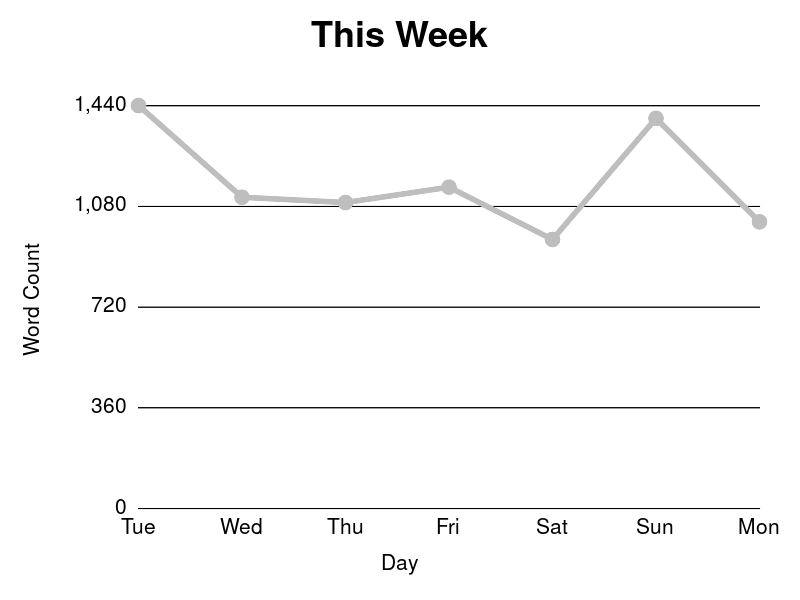
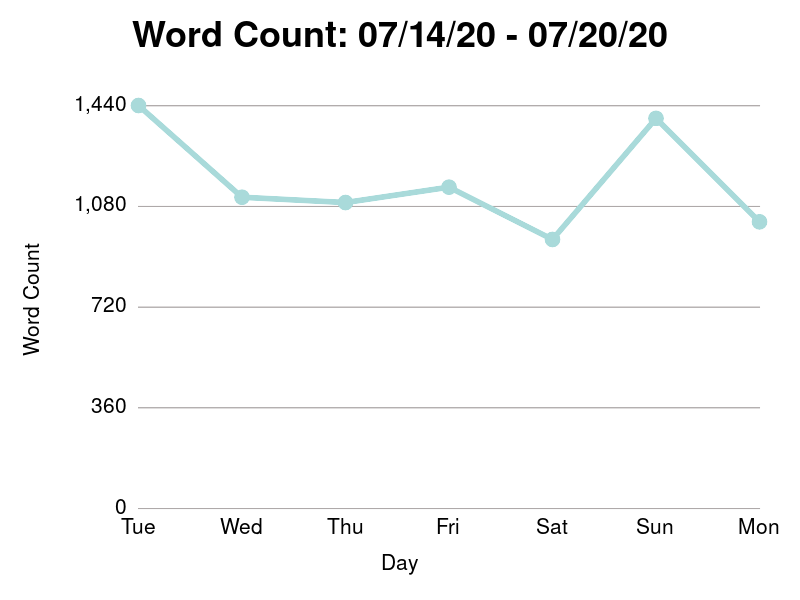
Swears

diff --git a/stats.html b/stats.html
@@ -6,19 +6,40 @@ slug: stats.html
 
 <div class="row">
   <div class="column">
-    {% include graph.html name="words.png" %}
-  </div>
-  <div class="column crowded">
+    <h2>Posts</h2>
+    <table>
+      <tr>
+	<td>Total Posts</td>
+	<td class="code">{{ site.data.stats.posts | pretty }}</td>
+      </tr>
+      <tr>
+	<td>Consecutive Daily Posts</td>
+	<td class="code">{{ site.data.stats.days.days | pretty }}</td>
+      </tr>
+    </table>
     <h2>Word Count</h2>
     <table>
       <tr>
-	<td>Total</td>
+	<td>Total Word Count</td>
 	<td class="code">{{ site.data.stats.words.total | pretty }}</td>
       </tr>
       <tr>
-	<td>Average</td>
+	<td>Average Word Count</td>
 	<td class="code">{{ site.data.stats.words.average | pretty }}</td>
       </tr>
     </table>
+  </div>
+  <div class="column">
+    {% include graph.html name="words.png" %}
+  </div>
+  <div class="column">
+    <h2>Bad Words</h2>
+    <table>
+      <tr>
+	<td>Total Bad Words</td>
+	<td class="code">{{ site.data.stats.swears.total | pretty }}</td>
+      </tr>
+    </table>
+    {% include graph.html name="swears.png" %}
   </div>
 </div>

diff --git a/_includes/graph.html b/_includes/graph.html
@@ -1,2 +1,2 @@
 {% capture filename %}graphs/{{ include.name }}{% endcapture %}
-{% include figure.html filename=filename class="graph" %}
+{% include figure.html filename=filename caption=include.caption class="graph" %}

diff --git a/contact.html b/contact.html
@@ -15,7 +15,7 @@ slug: contact.html
       
       <dt>RSS</dt>
       <dd>
-	<a href="{{ site.base_url }}/feed.xml">feed.xml
+	<a href="{{ site.base_url }}{{ site.recker.feed }}">feed.xml
 	</a>
       </dd>
 

diff --git a/lib/jekyll_recker/generators/swears.rb b/lib/jekyll_recker/generators/swears.rb
@@ -5,10 +5,35 @@ module JekyllRecker
     # Swear Count Generator
     class Swears < Jekyll::Generator
       include Stats
+      include Graphs
 
       KEY = 'swears'
 
       def crunch
+        results = calculate
+        if production?
+          logger.info 'production detected. skipping graphs'
+        else
+          logger.info 'generating bad word graph'
+          make_graph(results)
+        end
+        {
+          "words" => results,
+          "total" => results.map(&:last).reduce(0, :+)
+        }
+      end
+
+      def make_graph(results)
+        require 'gruff'
+        g = new_pie_graph
+        g.title = 'Bad Words: Total Distribution'
+        g.title_margin = 5
+        g.legend_at_bottom = true
+        results.each { |w, n| g.data w, n }
+        g.write(graphs_join('swears.png'))
+      end
+
+      def calculate
         results = Hash.new(0)
         entries.collect(&:content).map(&:split).each do |words|
           words = words.map(&:downcase)

diff --git a/lib/jekyll_recker/generators/word_count.rb b/lib/jekyll_recker/generators/word_count.rb
@@ -25,11 +25,22 @@ module JekyllRecker
         }
       end
 
+      def labels(posts)
+        Hash[posts.reverse.each_with_index.map { |p, i| [i, p.date.strftime("%a")] }]
+      end
+
+      def title(posts)
+        format = '%m/%d/%y'
+        first = posts.last.date.strftime(format)
+        last = posts.first.date.strftime(format)
+        "Word Count: #{first} - #{last}"
+      end
+
       def make_graph(posts)
         g = new_line_graph
-        g.labels = Hash[posts.reverse.each_with_index.map { |p, i| [i, p.date.strftime("%a")] }]
+        g.labels = labels(posts)
         g.data :words, posts.collect(&:content).map { |c| number_of_words(c) }.reverse
-        g.title = 'This Week'
+        g.title = title(posts)
         g.x_axis_label = 'Day'
         g.y_axis_label = 'Word Count'
         g.minimum_value = 0

diff --git a/lib/jekyll_recker/generators.rb b/lib/jekyll_recker/generators.rb
@@ -71,18 +71,16 @@ module JekyllRecker
 
       def new_line_graph
         g = Gruff::Line.new
-        g.theme = theme
+        g.theme = Gruff::Themes::PASTEL
         g.hide_legend = true
         g
       end
 
-      def theme
-        {
-          colors: %w[grey black],
-          marker_color: 'black',
-          font_color: 'black',
-          background_colors: 'white'
-        }
+      def new_pie_graph
+        g = Gruff::Pie.new
+        g.theme = Gruff::Themes::PASTEL
+        g.hide_legend = false
+        g
       end
 
       def graphs_join(path)

diff --git a/lib/jekyll_recker/feed.rb b/lib/jekyll_recker/feed.rb
@@ -1,0 +1,8 @@
+# frozen_string_literal: true
+
+module JekyllRecker
+  # Feed
+  class Feed
+
+  end
+end
